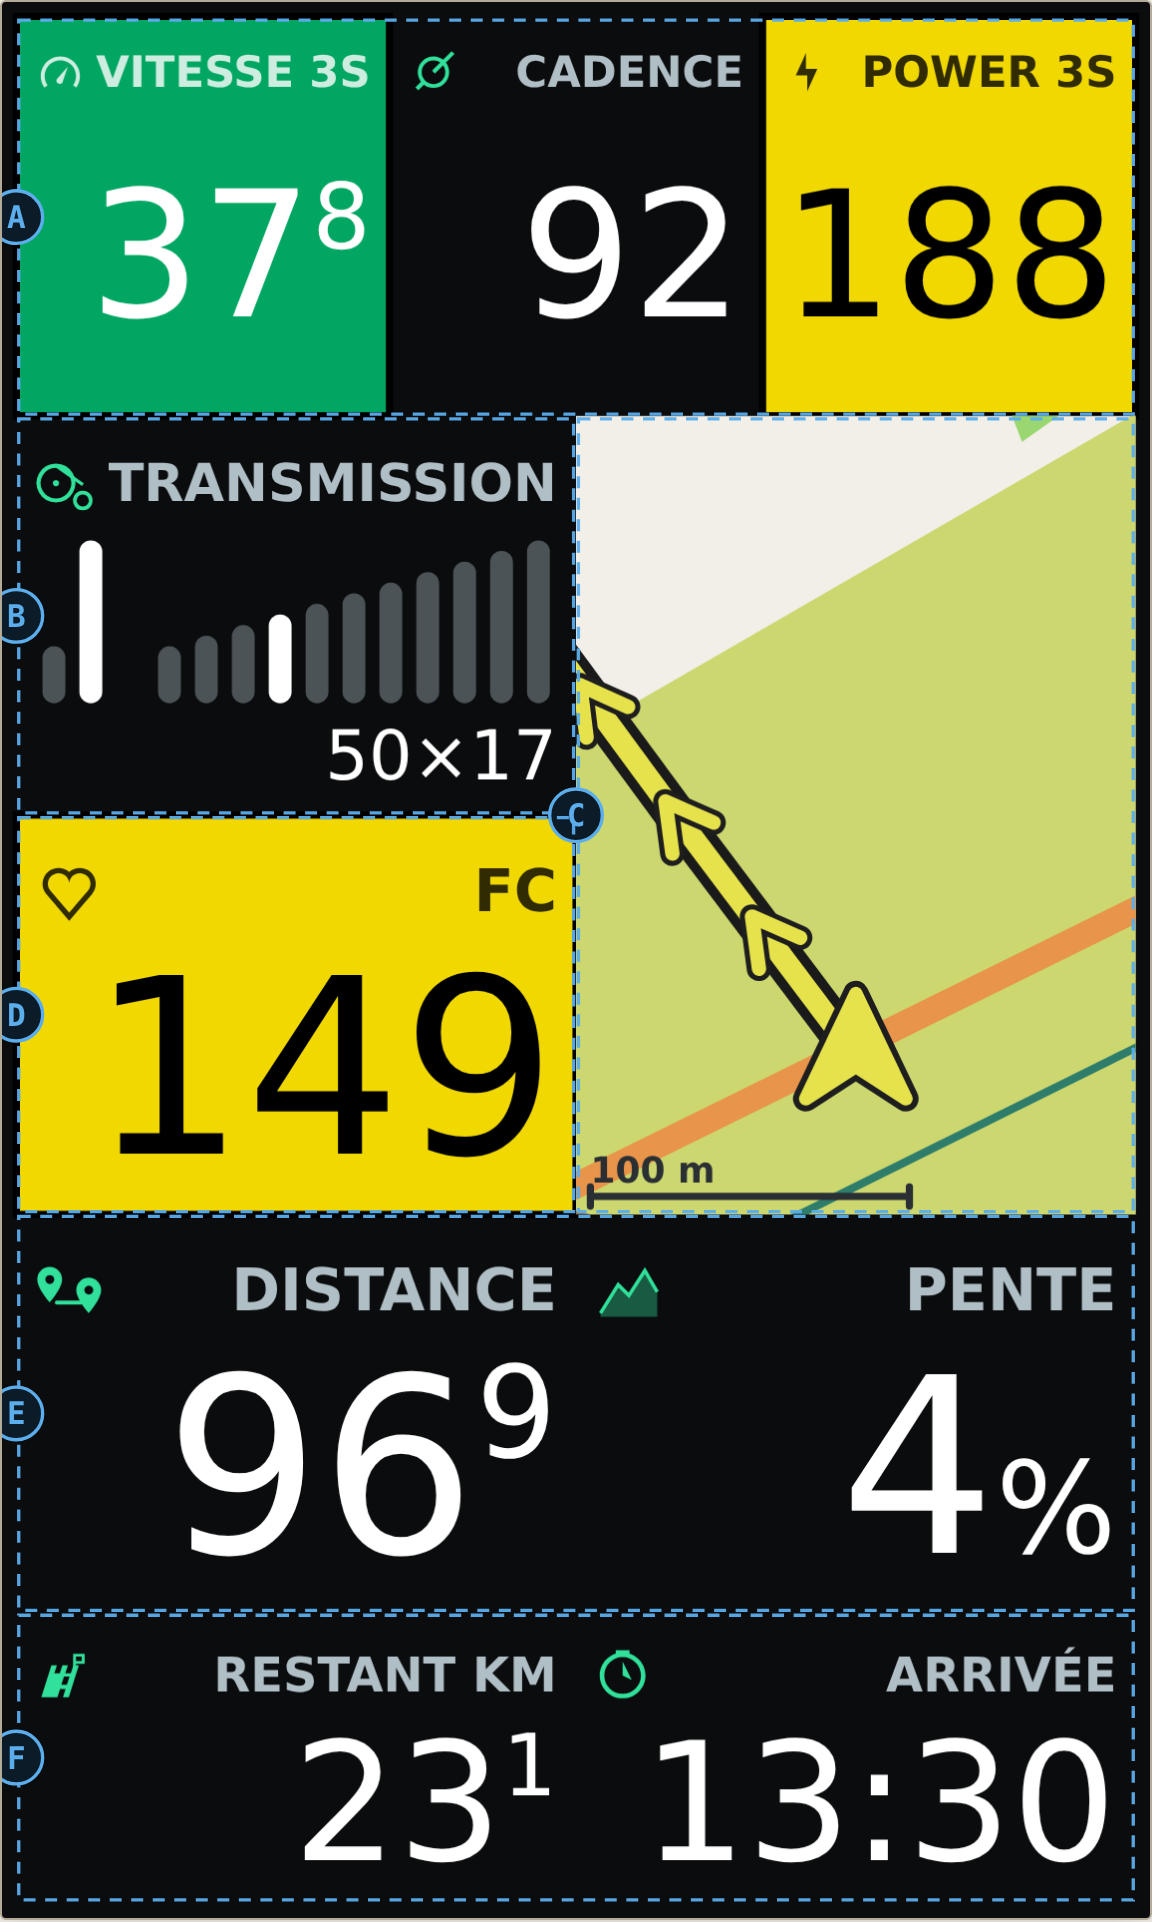
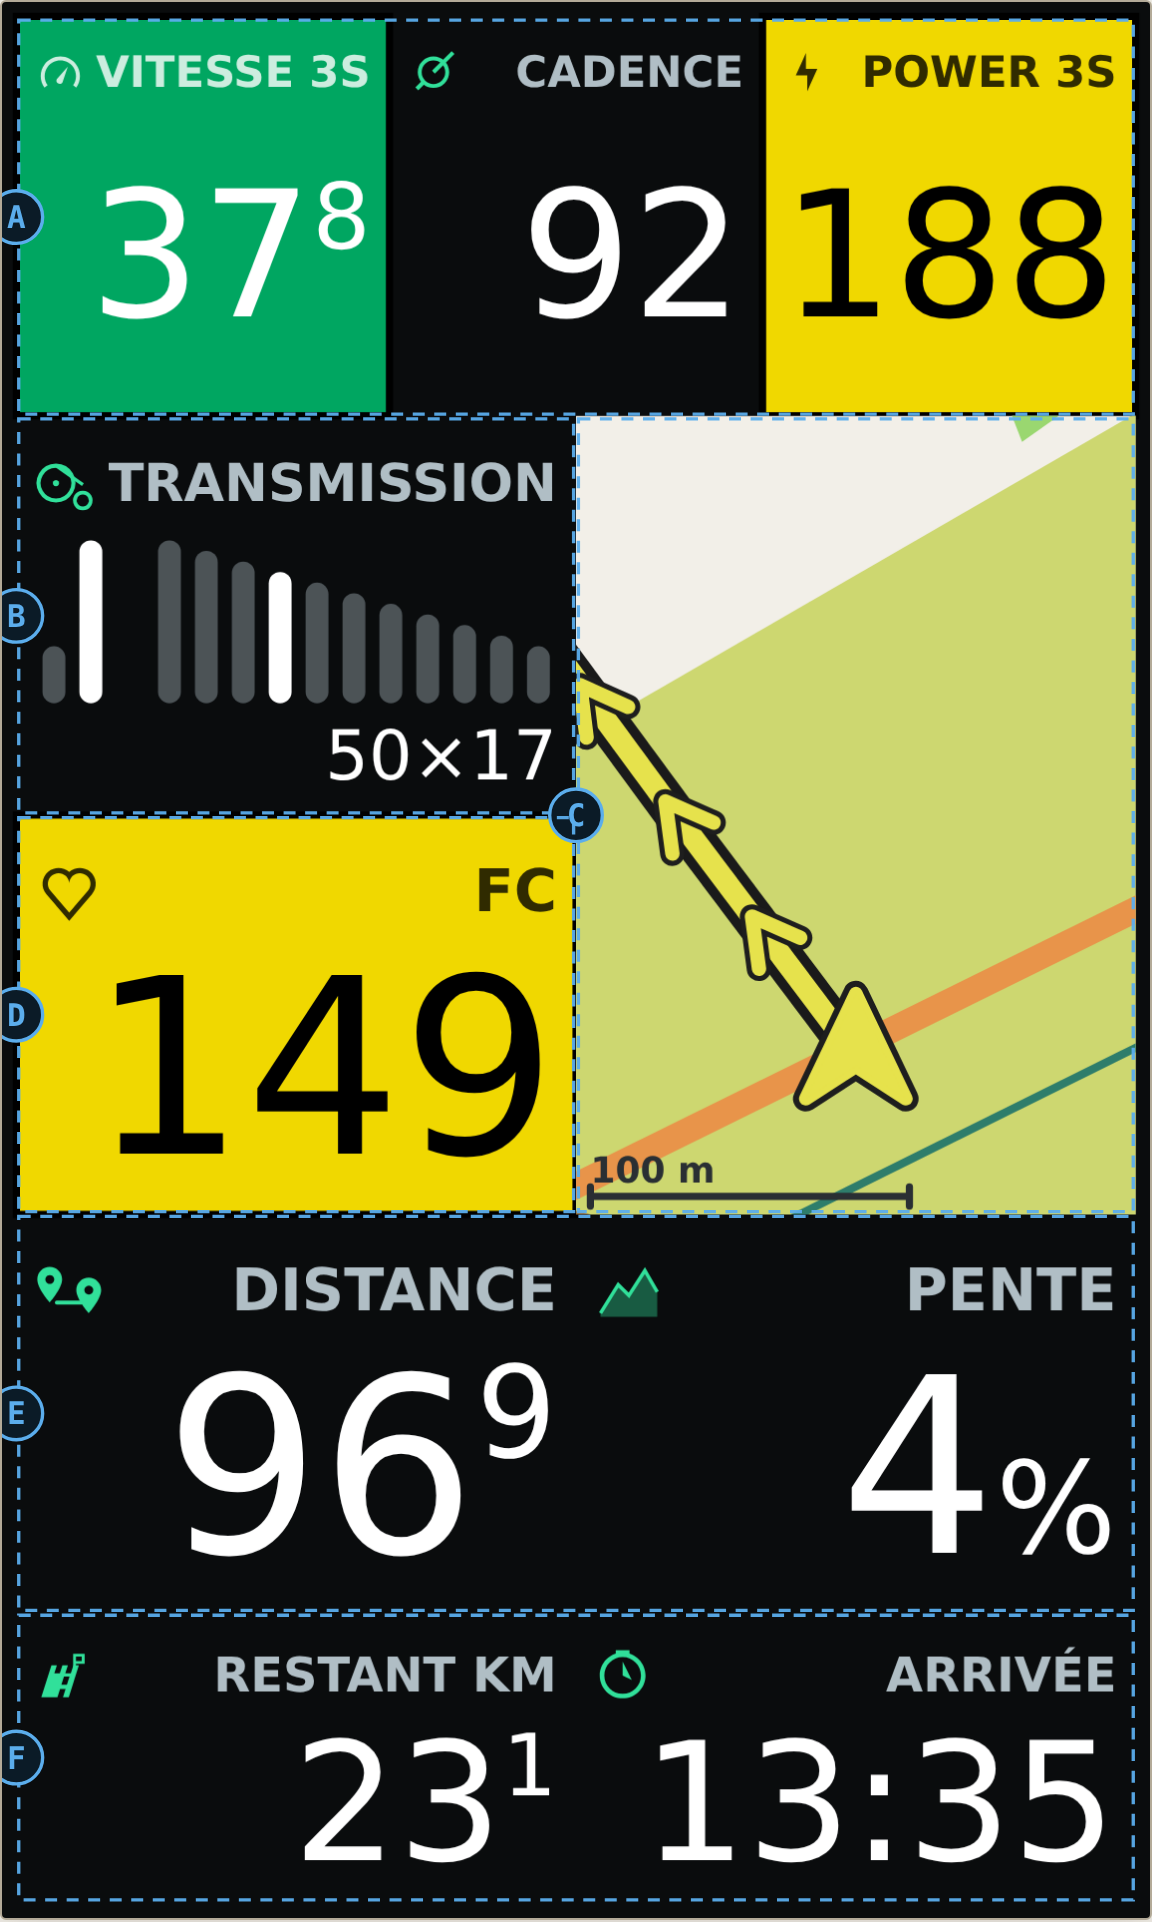
Reporter le sens du peigne arrière dans les planches
Claude-Session: https://claude.ai/code/session_013KNvL6kHkzLQjmszhNZFFm

Changed region(s): [[0.3125, 0.281, 0.5, 0.3434], [0.125, 0.281, 0.2812, 0.3434], [0.875, 0.9053, 0.9688, 0.9677]]

diff --git a/docs/planches.html b/docs/planches.html
@@ -231,7 +231,7 @@
       et demi de diagonale. Toutes les cotes, les couleurs et les icônes viennent du code de
       la branche.</p>
     <div class="stamp">
-      <span>Version <b>b0898a8</b></span>
+      <span>Version <b>c252b6f</b></span>
       <span>Branche <b>claude/hammerhead-karou-3-app-9yvabn</b></span>
       <span>Écran <b>480 × 800 px · ≈389 ppp</b></span>
     </div>
@@ -404,8 +404,6 @@
     </div>
     <div class="plate-body">
       <ul class="log">
-        <li><span class="sha">b0898a8</span><p>Les barres de la cassette remises à l'endroit
-          <small>Le rapport n° 1 est le petit pignon, pas le grand : le peigne était retourné.</small></p></li>
         <li><span class="sha">5cbb78a</span><p>La part parcourue du tracé cernée elle aussi
           <small>Sans cerne elle disparaissait sur le fond clair : la flèche flottait sur du vide.</small></p></li>
         <li><span class="sha">b20c0ff</span><p>Le peigne retrouve sa hauteur
@@ -731,15 +729,16 @@ function comb(current, count){
   if (current == null) return null;
   return [clamp(current,1,count), count];
 }
-// Les deux peignes montent : le rapport n° 1 est le plus petit plateau et le plus petit
-// pignon, la hauteur suit donc la denture des deux côtés.
-function drawComb(ctx, area, c, barWidth){
+// Le plateau n° 1 est le petit, le peigne avant monte ; le pignon n° 1 est le grand,
+// le peigne arrière descend — à gauche le grand pignon, comme sur la cassette.
+function drawComb(ctx, area, c, barWidth, ascending){
   const [current, count] = c;
   if (area.w <= 0) return;
   const pitch = area.w / count;
   const radius = barWidth/2;
   for (let index = 1; index <= count; index++) {
-    const ratio = count === 1 ? 1 : (index-1)/(count-1);
+    const step = count === 1 ? 1 : (index-1)/(count-1);
+    const ratio = ascending ? step : 1-step;
     const height = area.h * (BAR_MIN_HEIGHT + (1-BAR_MIN_HEIGHT)*ratio);
     const left = area.x + (index-1)*pitch + (pitch-barWidth)/2;
     ctx.fillStyle = index === current ? PAL.textPrimary : alphaOf(PAL.textSecondary, BAR_ALPHA);
@@ -792,8 +791,8 @@ function drawDrivetrain(ctx, bounds, model, valueSize, labelSize){
   const rearLeft = area.x + frontWidth + gap;
   const barWidth = Math.max(pitch*BAR_WIDTH_FRACTION, 2);
 
-  if (front) drawComb(ctx, {x:area.x, y:combTop, w:frontWidth, h:combBottom-combTop}, front, barWidth);
-  if (rear)  drawComb(ctx, {x:rearLeft, y:combTop, w:area.x+area.w-rearLeft, h:combBottom-combTop}, rear, barWidth);
+  if (front) drawComb(ctx, {x:area.x, y:combTop, w:frontWidth, h:combBottom-combTop}, front, barWidth, true);
+  if (rear)  drawComb(ctx, {x:rearLeft, y:combTop, w:area.x+area.w-rearLeft, h:combBottom-combTop}, rear, barWidth, false);
 
   if (teeth) {
     ctx.font = fontLight(teethSize);

diff --git a/docs/planches.md b/docs/planches.md
@@ -16,7 +16,7 @@ sont ceux des sources.
 > en Roboto, plus étroit que la fonte système d'un navigateur, et les libellés — dont le corps
 > s'ajuste à la largeur disponible — sortent donc un peu plus petits ici que sur l'appareil.
 
-Version reproduite : **`b0898a8`**.
+Version reproduite : **`c252b6f`**.
 
 ## La page interactive
 
@@ -53,7 +53,7 @@ tourner au bon carrefour.
 | | Zone | Ce qu'elle porte |
 | --- | --- | --- |
 | **A** | Bandeau d'effort | Vitesse, cadence, puissance sur 3 secondes. Vitesse et puissance prennent un aplat : vert au-dessus de la moyenne de la sortie, et la couleur de la zone réglée dans le Karoo. |
-| **B** | Transmission | Plateaux à gauche, pignons à droite, même pas d'un peigne à l'autre. Les barres montent avec la denture des deux côtés : le rapport n° 1 est le plus petit plateau et le plus petit pignon. La barre allumée est en blanc — c'est un chiffre qu'on lit, pas un voyant. Un mono-plateau n'affiche que la cassette. |
+| **B** | Transmission | Plateaux à gauche, pignons à droite, même pas d'un peigne à l'autre. Les barres suivent la denture : le peigne des plateaux monte, celui des pignons descend, le rapport n° 1 étant le petit plateau mais le grand pignon. La barre allumée est en blanc — c'est un chiffre qu'on lit, pas un voyant. Un mono-plateau n'affiche que la cassette. |
 | **C** | Minicarte | Cap en haut, coureur fixe aux quatre cinquièmes de la hauteur. Fond de carte hors ligne, tracé cerné de noir, chevrons bornés aux prochaines centaines de mètres. |
 | **D** | Fréquence cardiaque | Aplat de zone, encre noire ou blanche selon le contraste perceptuel APCA : le jaune tempo réclame du noir, le rouge anaérobie non. |
 | **E** | Distance et pente | Une seule taille de chiffres pour ce rang et celui du dessus : sans cela « 96,9 » s'écrirait plus petit que « 4 » et l'œil ne saurait plus laquelle est laquelle. |
